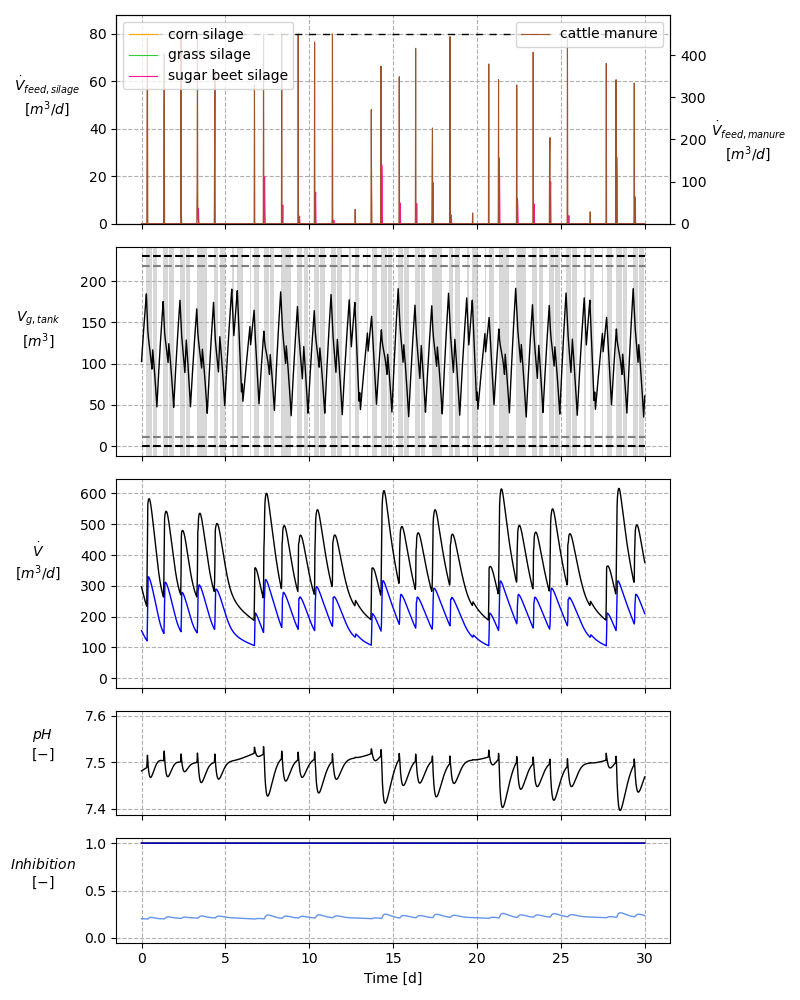
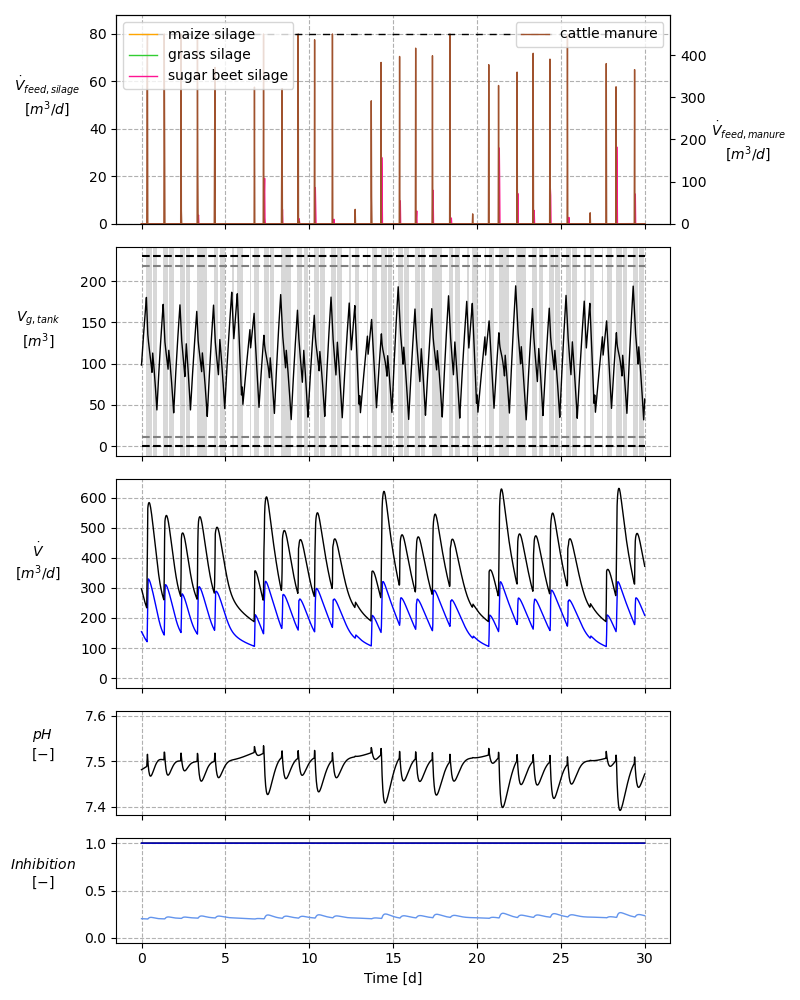
update Sc. 2a (nominal and robust)

diff --git a/ad_meal_prep_control/plot_generation/plot_scenario_2a.py b/ad_meal_prep_control/plot_generation/plot_scenario_2a.py
@@ -11,9 +11,9 @@ from ad_meal_prep_control.plot_generation.Controller_output_plotting.Output_Scen
 )
 
 scenario_names = [
-    "Scenario_2a_dynamic_nominal_feedback_mismatch_1std_8tsap",
+    "Scenario_2a_dynamic_nominal_feedback_mismatch_2std_8tsap",
     "Scenario_2a_dynamic_nominal_ideal_feedback_8tsap",
-    "Scenario_2a_dynamic_robust_feedback_mismatch_1std_8tsap",
+    "Scenario_2a_dynamic_robust_feedback_mismatch_2std_8tsap",
 ]
 plot_save_names = scenario_names
 
